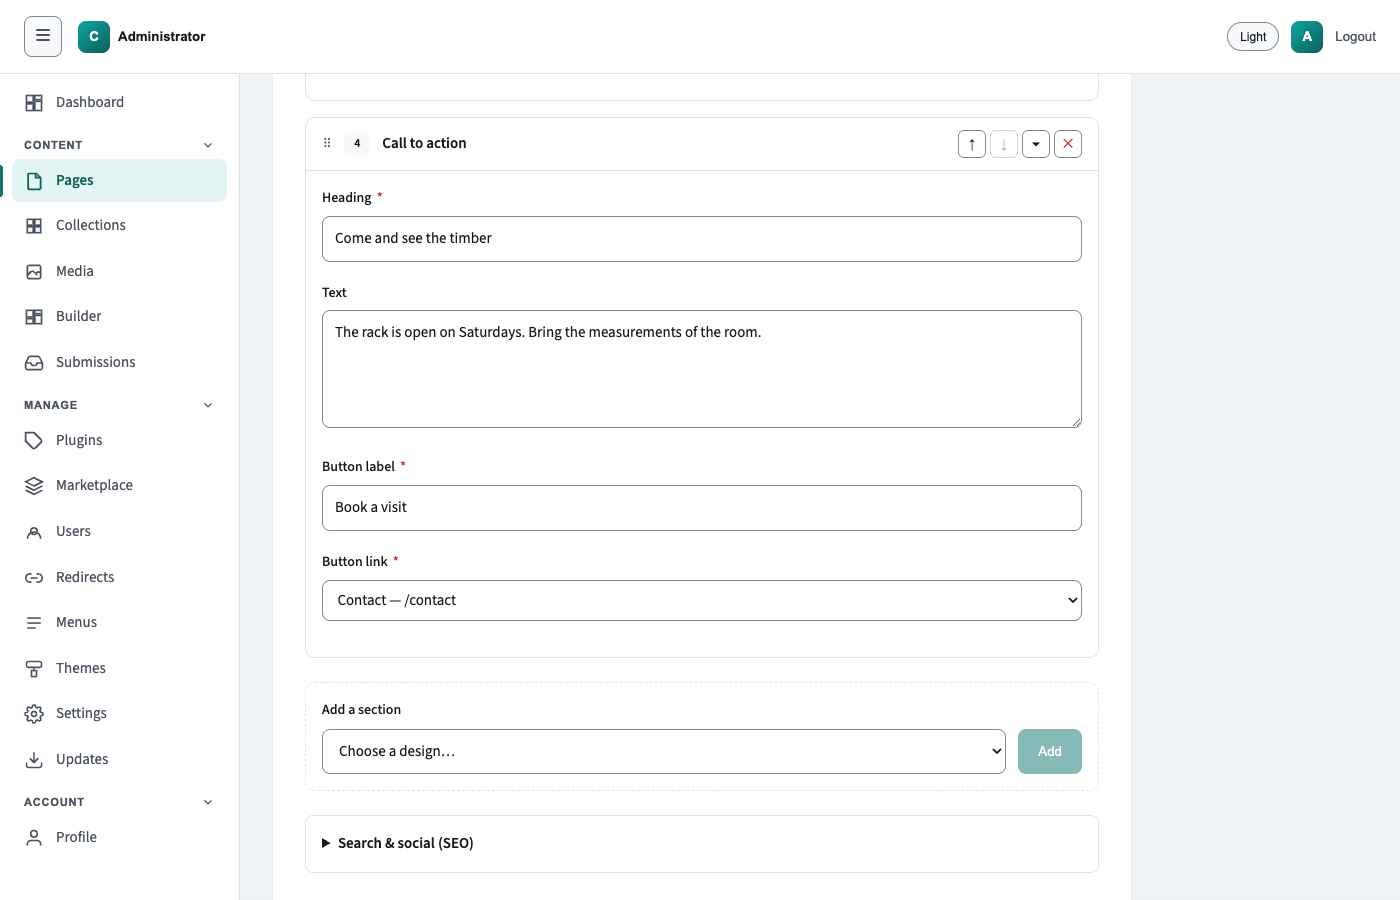
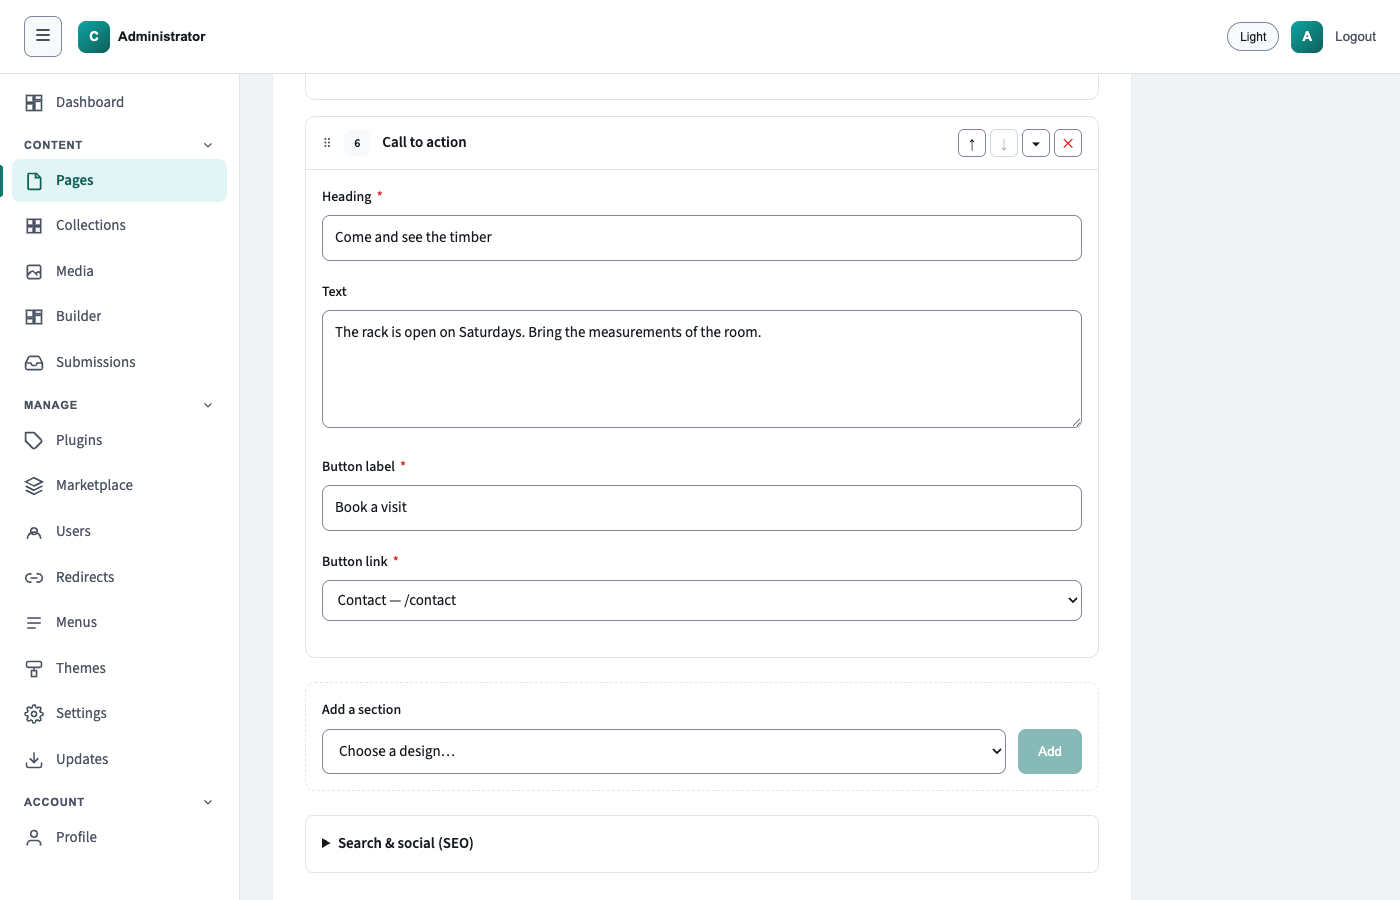
docs: recapture the screens whose wording changed under them
The media library screenshot still showed "7 images" and "Drag images here",
wording this session replaced because it was wrong once a film could be in
the library. The editor shots predated the link picker and the sixteen
section designs.

Recaptured with scripts/screenshots/capture.mjs against a freshly seeded
instance, and the alt text updated to match what each picture now shows —
alt text that describes a previous version of a screen is worse than none,
because it is the version a screen-reader user is given.

Changed region(s): [[0.2457, 0.1867, 0.3379, 0.28], [0.6757, 0.1244, 0.7679, 0.1556], [0.2764, 0.1244, 0.3379, 0.1867]]

diff --git a/docs/editing.md b/docs/editing.md
@@ -52,7 +52,7 @@ tells you so — nothing is harmed by finding out this way.
 
 Click **Edit** on the row you want. The page editor opens.
 
-![The top of the page editor. A banner reads "Not published — this page has not been saved yet", the Title field contains "Rivet & Oak", and the Slug field contains "home" with the note that the slug is part of the page's address and cannot be changed here. Below, a Sections heading and the first section, "Media and text".](images/edit-page.png)
+![The top of the page editor. A green banner reads "Published — the public site matches what is here", with the date of the last publish, a link to open the live page, and a Take down button. The Title field contains "Rivet & Oak" and the Slug field contains "home", with the note that the slug is part of the page's address and cannot be changed here. Below, a Sections heading and the first section, "Media and text".](images/edit-page.png)
 
 At the top of the editor is a **banner** telling you where this page stands: on
 the public site, not saved yet, or saved with changes waiting. It is the first
@@ -336,7 +336,7 @@ version history still has the page as it was — see
 
 Scroll to the bottom of the sections. There is a box headed **Add a section**.
 
-![The bottom of the editor: a "Call to action" section with Heading, Text, Button label and Button link fields — several marked with a red asterisk — and below it a box headed "Add a section" containing a "Choose a design…" dropdown and an Add button, followed by a collapsed "Search & social (SEO)" area.](images/add-section.png)
+![The bottom of the editor: a "Call to action" section with Heading, Text and Button label fields — several marked with a red asterisk — and a Button link dropdown showing "Contact — /contact". Below it a box headed "Add a section" containing a "Choose a design…" dropdown and an Add button, followed by a collapsed "Search & social (SEO)" area.](images/add-section.png)
 
 1. Open the **Choose a design…** dropdown.
 2. Pick a design. Its description appears underneath the dropdown, so you can

diff --git a/docs/pictures.md b/docs/pictures.md
@@ -12,7 +12,7 @@ pictures. Video works differently in enough ways to need
 
 Click **Media** in the left-hand menu.
 
-![The Media screen, headed "7 images. Each upload is resized to: sm, md, lg, xl." It has a "+ Upload" button, a search box, a folder dropdown, a dashed area reading "Drag images here, or use the Upload button", and a grid of image cards. Each card shows a thumbnail, the file name and size, a Description field, and Copy reference and Delete buttons.](images/media-library.png)
+![The Media screen, headed "7 pictures. Each upload is resized to: sm, md, lg, xl." It has a "+ Upload" button, a search box, a folder dropdown, a dashed area reading "Drag pictures or video here, or use the Upload button", and a grid of cards. Each card shows a thumbnail, the file name and size, a Description field, and Copy reference and Delete buttons.](images/media-library.png)
 
 Each picture appears as a card showing:
 
